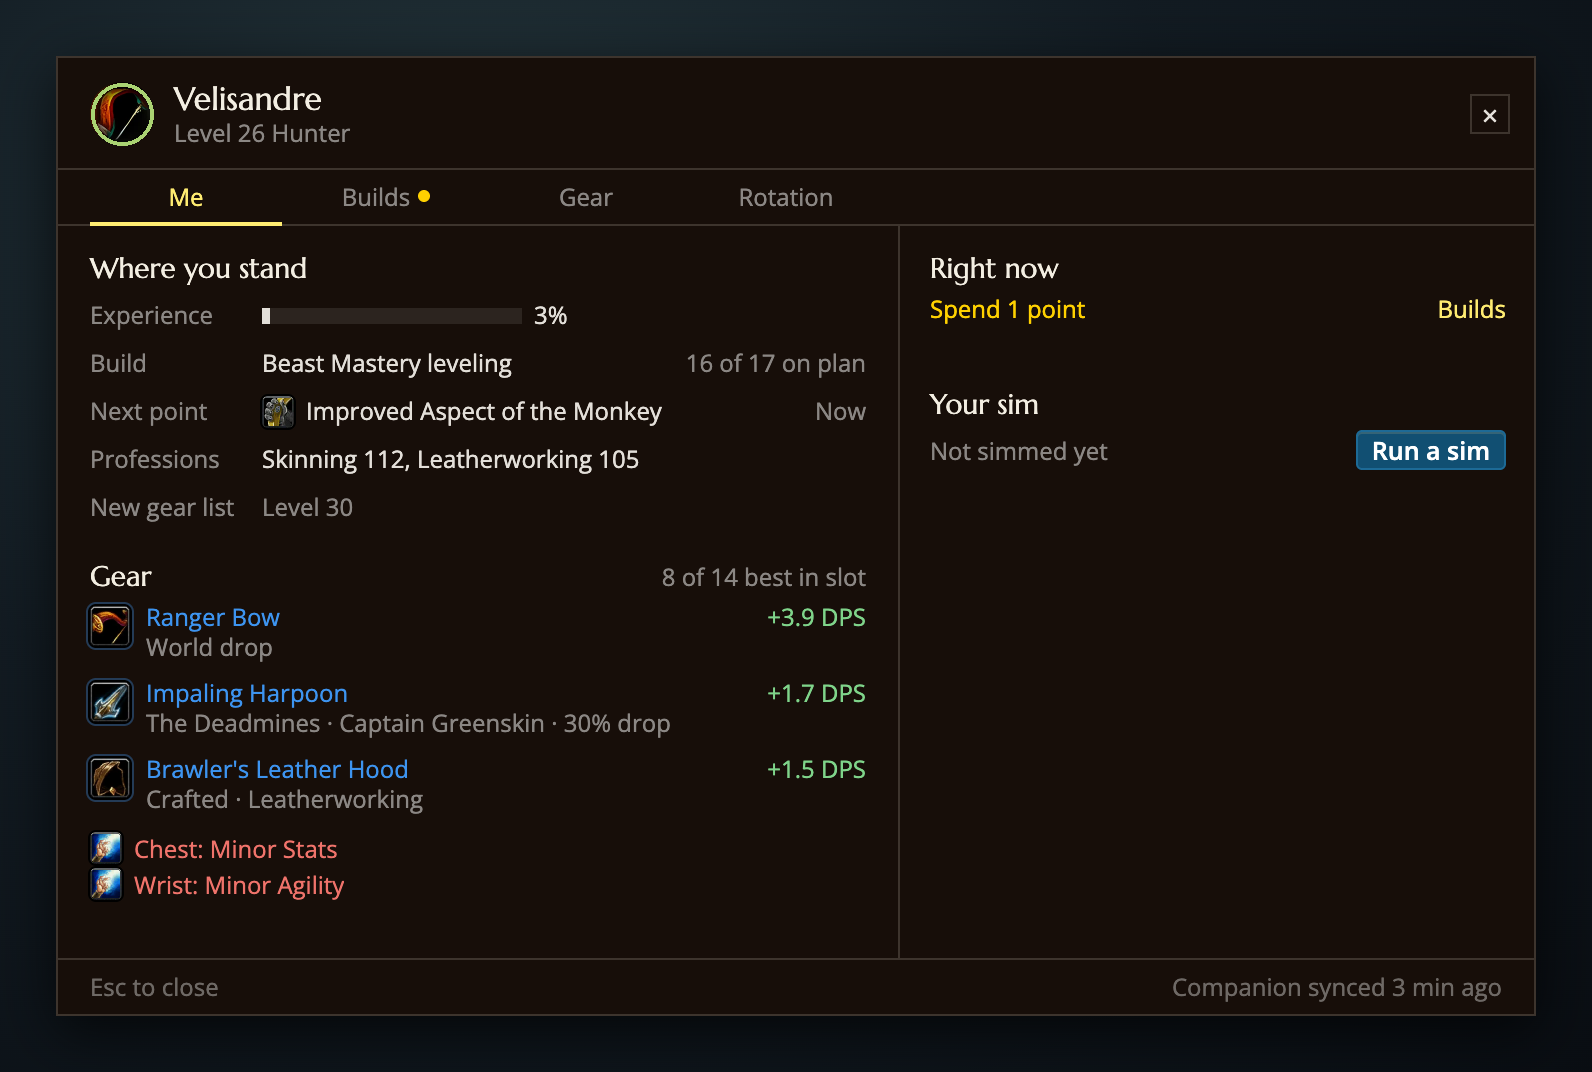
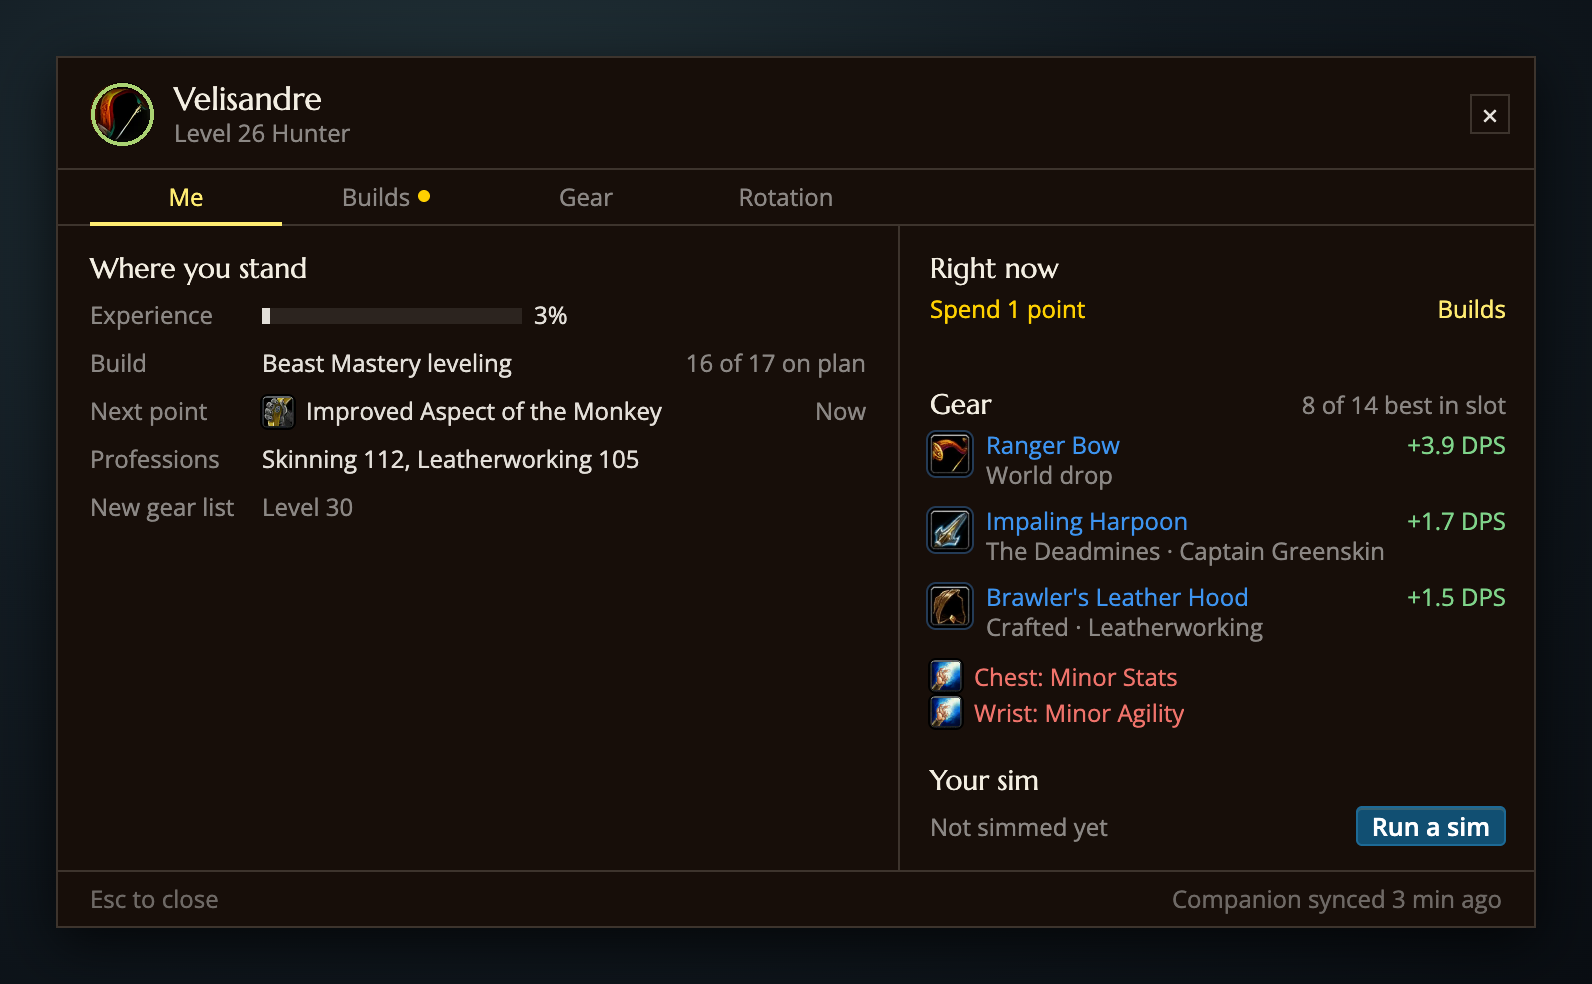
fix(addon): Me review round 3: gear stays right unless the left is clearly shorter; a source too wide drops its chance, never the boss

diff --git a/design/mocks/addon_hub_me_empty.py b/design/mocks/addon_hub_me_empty.py
@@ -44,12 +44,12 @@ SLOTS = {'head': 'Head', 'neck': 'Neck', 'shoulder': 'Shoulder', 'back': 'Back',
 KIND_WORDS = {'crafted': 'Crafted', 'quest': None, 'world_drop': None, 'vendor': None, 'rep': None}
 
 
-def where(slot, s):
+def where(slot, s, chance_room=True):
     """GearTab.sourceWhere's words: the source as the tooltip says it (ItemTooltip.sourceParts), no slot."""
     source, kind, chance = s.get('source') or '', s.get('source_kind'), s.get('chance')
     if kind in ('dungeon', 'raid') and ': ' in source:
         place, boss = source.split(': ', 1)
-        text = f'{place} · {boss}' + (f' · {round(chance * 100)}% drop' if chance else '')
+        text = f'{place} · {boss}' + (f' · {round(chance * 100)}% drop' if chance and chance_room else '')
     elif kind == 'crafted':
         text = f'Crafted · {source}'
     else:
@@ -64,7 +64,8 @@ def band_rows(band, faction='alliance'):
     for s in spec['slots']:
         alts = s.get('alternatives') or []
         if s.get('item_id') and alts:
-            rows.append({'itemId': s['item_id'], 'gain': -alts[-1]['dps_delta'], 'where': where(s['slot'], s)})
+            rows.append({'itemId': s['item_id'], 'gain': -alts[-1]['dps_delta'], 'where': where(s['slot'], s),
+                         'whereShort': where(s['slot'], s, False)})
     return rows
 
 
@@ -79,7 +80,8 @@ def gear20():
     rows = sorted(band_rows(20), key=lambda r: -r['gain'])[:6]
     return {'band': 20, 'best': 8, 'scored': 14,
             'enchants': [enchant('chest', 'Enchant Chest - Minor Stats'), enchant('wrist', 'Enchant Bracer - Minor Agility')],
-            'upgrades': [{'itemId': r['itemId'], 'gain': f'+{r["gain"]:.1f} DPS', 'where': r['where']} for r in rows]}
+            'upgrades': [{'itemId': r['itemId'], 'gain': f'+{r["gain"]:.1f} DPS', 'where': r['where'],
+                         'whereShort': r['whereShort']} for r in rows]}
 
 
 def gear60():
@@ -168,6 +170,12 @@ def short_words(e):
     return f'{SLOTS[e["slot"]]}: {name}'
 
 
+def fit_where(g, width):
+    """MeFrame: the drop chance goes first when the source does not fit the row (about 6.3 px a character)."""
+    where = g.get('where') or ''
+    return g.get('whereShort') or where if len(where) * 6.3 > width - G['nowIcon'] - G['nowGap'] else where
+
+
 def gear_html(m, width):
     """Each upgrade as a Right now row (MeFrame drawLocalGear, `width` wide), then GearEnchants' rows."""
     if not m:
@@ -176,7 +184,7 @@ def gear_html(m, width):
     out += ''.join(f'<div class="now"><span class="ni">{item_icon(g["itemId"], G["nowIcon"])}</span>'
                    f'<div class="tx" style="width:{width - G["nowIcon"] - G["nowGap"]}px"><div style="width:'
                    f'{width - G["nowIcon"] - G["nowGap"] - G["gainValue"]}px">{hub.item_name(g["itemId"])}</div>'
-                   f'<div class="m">{me.wow(g.get("where") or "")}</div></div>'
+                   f'<div class="m">{me.wow(fit_where(g, width))}</div></div>'
                    f'<span class="lk ok">{esc(g["gain"])}</span></div>' for g in m['rows'])
     if m['rows']:
         out += f'<div style="height:{4 - (G["nowRow"] - 2 * G["line"])}px"></div>'
@@ -199,16 +207,21 @@ def board(name, caption, model, level, dots, tabs):
     figures = me.SEP.join([f'Level {level} Hunter'] + model['figures'])
     left = standing_html(model.get('standing'))
     right = (l8.setup_html(model['setup']) if model.get('setup') else me.now_html(model.get('rightNow')))
-    # MeFrame.draw: Gear joins the shorter column, the sim counted (heights as the frame lays them out).
+    # MeFrame.draw: Gear on the right above the sim unless the left is shorter by more than a row with it
+    # (heights as the frame lays them out).
     rows, now, sim = len((model.get('standing') or {}).get('rows', [])), len(model.get('rightNow') or []), model.get('sim')
+    gear = model.get('gear') or {}
     left_h = 26 + rows * G['partRow'] + G['sectionGap'] if rows else 0
-    right_h = (26 + now * G['nowRow'] + G['sectionGap'] - (G['nowRow'] - 2 * G['line']) if now else 0) + (62 if sim else 0)
-    if left_h < right_h:
-        left += gear_html(model.get('gear'), 388)
+    right_h = 26 + now * G['nowRow'] + G['sectionGap'] - (G['nowRow'] - 2 * G['line']) if now else 0
+    sim_h = 62 if sim else 0
+    gear_h = (26 + len(gear.get('rows', [])) * G['nowRow'] - (G['nowRow'] - 2 * G['line'])
+              + (4 + 18 * len(gear.get('enchants') or []) if gear.get('enchants') else 0) + G['sectionGap']) if gear else 0
+    if max(left_h + gear_h, right_h + sim_h) + G['nowRow'] < max(left_h, right_h + gear_h + sim_h):
+        left += gear_html(gear or None, 388)
     else:
-        right += gear_html(model.get('gear'), 288)
-    left += site_html(model.get('site'))
+        right += gear_html(gear or None, 288)
     right += me.sim_html(sim)
+    left += site_html(model.get('site'))
     saved = bw.TABS
     bw.TABS = tabs
     try:

diff --git a/design/reviews/2026-11-14-me-empty-and-sources/me-ux-designer-round-3.md b/design/reviews/2026-11-14-me-empty-and-sources/me-ux-designer-round-3.md
@@ -1,0 +1,26 @@
+# ux-designer, round 3 (Me with no site activity)
+
+Verdict: SHIP
+
+Round 3 resolves my round 2 shoulds 1 to 3. Nothing blocks. One layout choice makes the window taller than it needs to be.
+
+**Verified in the round 3 captures**
+
+- **Enchant rows.** They now read `Chest: Minor Stats`, `Wrist: Minor Agility` and `Back: Lesser Agility`, with the planned enchant's icon, warning colour, and nothing cut off. This fixes the lost slot name.
+- **Point-waiting row.** `Spend 1 point` in client gold with the `Builds` link, on one line, with no truncation. The talent name stays in the left `Next point` row, whose `Now` note is body colour. Right now does not repeat the left column.
+- **Sources.** The gear sources no longer repeat the slot. The l25-point capture shows `The Deadmines · Captain Greenskin · 30% drop` in full.
+- **Site line.** It shows once, with the gold link, only without the companion: l25 and l5 have it, while l25-point and l60 have none. This matches section 13 as you described it.
+- **Labels.** `First talent` / `Level 10` and `New gear list` / `Level 30` replace the colon sentences. They are shorter and read as a table.
+- **Your sim.** `Not simmed yet` with `Run a sim` is consistent across captures. The new test `keeps Sim again shown across a redraw` covers the button no longer hiding on redraw, per your test run.
+- **Level 60.** There is no Experience row. Professions and Gear at band 60 show. The Guild raid row is not duplicated.
+
+**Shoulds**
+
+1. **Window height in l25-point is 1072 px, against 788 in l25 and 928 for the same state last round.**
+   - Gear now sits in the left column under five rows. The right column holds one row and Your sim, then about 480 px of nothing.
+   - The "shorter column" rule counted the right column as taller. In the render, the left column is shorter by about 50 px before Gear is added. Check the height arithmetic and which column `buildGear` picks. For a one-row Right now, Gear on the right gives roughly 930 px and balances the columns.
+   - Section 8 says the tab must not make the window taller than the tallest of today's Me layouts. Confirm 1072 px is within that, since `Hub.fitHeight` sets the in-game height. If it is not, this is a must-fix.
+2. **Gear moves between columns between states.** It is on the right in l25 and l60, and on the left in l25-point. A player who opens the tab, spends the point, and reopens sees it jump. This is a smaller issue than should 1. It could go away if rule 1 puts Gear on the right consistently.
+3. **l25 right column.** The Harpoon source line is still cut at `30% dr...` at 576 px. Drop `· 30% drop`, or shrink the item name. Once Gear moves left or the column is wider, it fits.
+4. **The XP bar still updates only on open and hub refresh.** This is accepted as a follow-up. Record it in the lane notes.
+5. **Not in this lane, still to log.** The question-mark icon on Set up step 2, and `Run a sim` alone on l60 (visible here as the empty right half).

diff --git a/design/reviews/2026-11-14-me-empty-and-sources/me-ai-slop-reviewer-round-3.md b/design/reviews/2026-11-14-me-empty-and-sources/me-ai-slop-reviewer-round-3.md
@@ -1,0 +1,40 @@
+# ai-slop-reviewer, round 3 (Me with no site activity)
+
+Verdict: PASS
+
+Round 3 holds up. All of the round 2 must-fixes are resolved in the captures. Nothing reads as generated: there are no visual tells, no truncation, no pitch sentence at 60, and no dead-panel scaffolding left. The remaining shoulds are small.
+
+**Must-fix**
+None.
+
+**Shoulds**
+1. **l26 and l60: the right column is still lopsided.**
+   - The right column is about 500 px of blank under "Your sim" and "Not simmed yet" (l60 and l26).
+   - Moving Gear left fixed the dead space on the left but moved it to the right.
+   - A quick option is to put "Your sim" in the left panel under Gear, or give Right now a second real row (for example the next dungeon or quest zone with its level range).
+2. **l5: the right column.**
+   - It holds a single link, "Pick your spec" with "Builds" repeated on the far right.
+   - Defensible, since there is nothing else at level 5.
+   - Drop the "Builds" link text, because the tab dot already points there.
+3. **"Your sim" heading, "Not simmed yet" and "Run a sim" still say one thing three times.**
+   - Collapse to "Sim: not run" with the button, to match the Experience and Build rows.
+4. **"Where you stand" and "Right now" are still sentence-casual headings.**
+   - They are the hub spec's names, so I am leaving them unchanged.
+   - A plain-label pair would read more like an addon than a prose voice.
+5. **Duplicated unlock info at l26.**
+   - "Next point ... Now" and the "Spend 1 point" line say the same thing.
+   - "Spend 1 point" is the call to action, so keep it and drop the "Now" value.
+6. **"8 of 14 best in slot" could shorten to "8/14".**
+   - The brand reviewer wants the website's own word, so keep "best in slot" but the "of" form is wordier than it needs to be.
+7. **"Your score, raid logs and sims come in through the companion app."**
+   - Acceptable as the one site line, shown only without the companion.
+   - The "No companion" footer says the same. The footer is enough on its own, so drop the sentence and keep the URL on a plain line.
+
+**Authentic, keep**
+- Sourced gear rows with real drop and craft data: "The Deadmines · Captain Greenskin · 30% drop", "Crafted · Leatherworking", "Scholomance · Kirtonos the Herald".
+- Short enchant lines in the red slot form: "Chest: Minor Stats", "Back: Lesser Agility".
+- "Skinning 112, Leatherworking 105" and "Engineering 300, Skinning 300".
+- The "New gear list / Level 30" row: label and value, no sentence.
+- The Onyxia's Lair 20:00 raid line.
+- The tab dot signalling the next action.
+- Quality-coloured item names with DPS deltas.

diff --git a/design/reviews/2026-11-14-me-empty-and-sources/me-brand-consistency-reviewer-round-3.md b/design/reviews/2026-11-14-me-empty-and-sources/me-brand-consistency-reviewer-round-3.md
@@ -1,0 +1,22 @@
+# brand-consistency-reviewer, round 3 (Me with no site activity)
+
+Verdict: PASS
+
+The Round 3 layout and copy changes hold. I found no must-fix items. I read the re-rendered `me-empty-l25.png` and `me-empty-l60.png` and spec section 13. I did not open the `-l5` or `-point` captures this round, or the code.
+
+**Fixed since round 2**
+1. **Enchant rows:** `Chest: Minor Stats` and `Wrist: Minor Agility` now show the slot and enchant without truncation. Warning colour stays on the enchant rows only, and the Gear tab keeps its long wording.
+2. **Gear in the shorter column:** at level 60 Gear moves under Where you stand. The left column is no longer sparse and the right is no longer overfull. Heading, note and row anatomy are identical in either column.
+3. **Upgrade sources:** each source drops the slot because the item name already says it. `The Deadmines · Captain Greenskin · 30% dr...` still clips the drop chance on the one longest row at level 25.
+4. **Unlock row:** `New gear list` / `Level 30` is a label and value pair like the other rows, with no colon or sentence.
+5. **Site line:** it shows only without the companion, so it is not repeated beside "Companion synced".
+6. **Unchanged and correct:**
+   - The brand tokens are intact: quality colours, success-green gains, a single gold link, muted labels.
+   - Copy is sentence case with no em dashes.
+   - "best in slot" and "on plan" match the web.
+
+**Shoulds**
+1. **Clipped drop chance:** the Level 25 Impaling Harpoon row cuts at `30% dr...`. The drop chance is the number a player acts on. Cut the boss name first, or drop the middle dot segment, so `30%` always survives. Fix it in `GearTab.sourceWhere` if the Gear tab has the same clip.
+2. **Warning red on the full enchant text:** the whole enchant row is red. This is the shared Gear tab style, so it is consistent. If the web's missing-enchant row shows only the label in warning colour, change the shared row, not Me.
+3. **Dropped tooltips:** `Next point` still has no spell tooltip. Spec 13 notes the Build hover and the talent tooltip are not done. A player who hovers the talent will notice.
+4. **Level 5 `Pick your spec`:** it stays in gold in Right now with the level-5 build row reading `No build followed`. That is by decision (section 13), and it is the same gold act-now style as the web's primary prompts. Fine.

diff --git a/design/reviews/2026-11-14-me-empty-and-sources/me-wow-player-round-3.md b/design/reviews/2026-11-14-me-empty-and-sources/me-wow-player-round-3.md
@@ -1,0 +1,28 @@
+# wow-player, round 3 (Me with no site activity)
+
+Verdict: FIX
+
+The enchant rows, the "Spend 1 point" line, the source lines and the level 5 prompt are all fixed. One real defect is left, plus one small should.
+
+**Must-fix**
+1. **The level-25 no-companion capture still truncates the Harpoon source.** The line reads "The Deadmines · Captain Greenskin · 30% dr…". The level-26 capture fits it whole because Gear moved to the left column. The right column in me-empty-l25 is too narrow for the same string. The player sees "30% dr…" on the one drop they care about. Either use the same wide layout, drop the "30%" suffix into the right-aligned DPS column, or shorten to "Captain Greenskin · 30%". The "drop" is implied.
+
+**Shoulds**
+2. **"Level 10" under "First talent" and "Level 30" under "New gear list" read fine now.** One more tweak would help: "New gear list: Level 30" is still vague. Say "Gear list 30" or name the band, since the Gear tab labels it that way.
+3. **"8 of 14 best in slot" and "Rested 40%" stay as you decided.** Same note as before: the in-game word for "on your list" is not "best in slot". It is your call.
+4. **"Spend 1 point" at level 26 now says what to do but not where.** "Builds" on the right is the link. Fine as it is.
+
+**Data to check (accuracy reviewer)**
+- **Gloves of Holy Might, "World drop", +11.2 DPS.** Still the largest gain on any capture. Confirm it is a hunter-usable glove and a real world drop.
+- **Forest Stalker's Bracers, "Silverwing Sentinels", epic.** Confirm the rarity and the reputation standing required.
+- **Windreaver Greaves, "Scholomance · Kirtonos the Herald".** This matches the Classic source. Verify.
+- **Impaling Harpoon, Captain Greenskin at "30% drop".** Verify the chance against the loot table.
+- **Back: Lesser Agility at 60.** Real and sensible, though a 60 would normally have the Greater Agility cloak enchant (if the client has it), so confirm the plan's level gate.
+
+**Good**
+- The level 5 prompt is a deliberate choice and reads right.
+- The talent counts agree.
+- The site line is one clear call.
+- The gear rows now carry slot, source and chance.
+- "Not simmed yet" with "Run a sim" is honest.
+- Moving Gear to the left column fixes the squeeze at 26 and 60.

diff --git a/design/specs/2026-11-14-me-empty.md b/design/specs/2026-11-14-me-empty.md
@@ -204,7 +204,7 @@ Verdict gate: SHIP needs every capture, the site link appearing once per capture
 
 ## 13. Review round 2 changes (2026-11-14)
 
-- Gear joins the shorter column, the sim counted (`MeFrame.draw`): beside a Right now row and the sim it sits under Where you stand on the left; with nothing on the right it fills the right. In the left column its rows run the column's 388 width.
+- Gear joins the shorter column (`MeFrame.draw`, superseded in section 14).
 - Upgrade rows name the source without the slot (`GearTab.sourceWhere`; the item names its slot), so the boss and drop chance fit.
 - Enchant rows on Me use `GearEnchants.shortWords`: the slot, then the enchant without its `Enchant Chest - ` lead (`Chest: Minor Stats`, `Feet: Agility beats +3 Agility`), in the warning colour, the enchant's client tooltip on hover. The Gear tab keeps its long words.
 - The Builds waiting line on Me is its `short` form (`Spend 1 point`): Where you stand names the talent beside it with `Now`.
@@ -213,3 +213,8 @@ Verdict gate: SHIP needs every capture, the site link appearing once per capture
 - Professions are read only where the client has `GetSkillLineInfo`.
 - Your sim's button stays shown across redraws (it hid and showed on every draw before); tested.
 - Not changed, by decision: `Pick your spec` at level 5 (the spec picks the gear list, rotation and tooltips before the first talent point, so the hub asks from level 1); `best in slot` (the web's words); `Rested` (players level around it); the footer's `No companion` (hub spec 3.4).
+
+## 14. Review round 3 changes (2026-11-14)
+
+- Gear sits on the right, above Your sim, unless the left column with Gear is shorter than the right without it by more than a Right now row (38 px): measured where it is drawn, then moved, never hidden. In practice: right at 25 and 26 (no Right now row, or one), left at 60 beside the guild's raid and the sim. In the left column its rows run the 388 width.
+- A source line too wide for its row drops the drop chance first, the boss stays whole (`GearTab.sourceWhere(cell, true)`): `The Deadmines · Captain Greenskin`. The chance stays in the client tooltip of the item and on the Gear tab.

diff --git a/design/reviews/2026-11-14-me-empty-and-sources/me-info-density-reviewer-round-3.md b/design/reviews/2026-11-14-me-empty-and-sources/me-info-density-reviewer-round-3.md
@@ -1,0 +1,26 @@
+# info-density-reviewer, round 3 (Me with no site activity)
+
+Verdict: PASS
+
+I checked `me-empty-l25.png` and `me-empty-l60.png` in the round 3 render. The three fixes landed and the page is dense with real local data.
+
+**Must-fix**
+None.
+
+**Confirmed fixed**
+- **Enchant rows:** they now read `Chest: Minor Stats` and `Wrist: Minor Agility`, with the slot first and nothing cut off.
+- **Level 60:** Gear joins the shorter column under Where you stand, so the left column is filled and the right column holds only Right now and Your sim. There is no dead block now.
+- **Upgrade rows:** each carries slot, source and drop chance underneath.
+- **`GetSkillLineInfo`:** guarded.
+
+**Shoulds, ranked**
+1. **The Impaling Harpoon source line still cuts at level 25.** It reads `The Deadmines · Captain Greenskin · 30% dr...`, and the drop chance is the part that is lost. Drop the dungeon name when the boss is named, or shrink to `Captain Greenskin · 30% drop`. The drop chance is the number a raider wants, so cut the area, not the chance.
+2. **Level 60 right column has about 300 px of empty ground** under Your sim. Moving Gear left fixed the left column but left the right one short. This is honest, and I do not want invented content. If the owner wants it filled, the real options are `+N more` upgrades (`GearTab.upgrades(doll).count`) or `+28.1 DPS available` (`.total`). Both are optional.
+3. **No "+N more" or total** anywhere on the Gear block, as before. The `8 of 14 best in slot` note shows slots, not upgrade potential.
+4. **Professions** could show the cap as `Skinning 112 of 150`, if the fifth return of `GetSkillLineInfo` gives it. Optional.
+
+**Needs data**
+- Gold, played time and reputation are not read by the addon.
+- Score, logs and sim stay behind the companion call to action.
+
+Files: /Users/jh/code/forever-me-tab/design/reviews/2026-11-14-me-empty-and-sources/me-empty-l25.png, /Users/jh/code/forever-me-tab/design/reviews/2026-11-14-me-empty-and-sources/me-empty-l60.png, /Users/jh/code/forever-me-tab/addon/ForeverSixty/surfaces/MeTab.lua.
